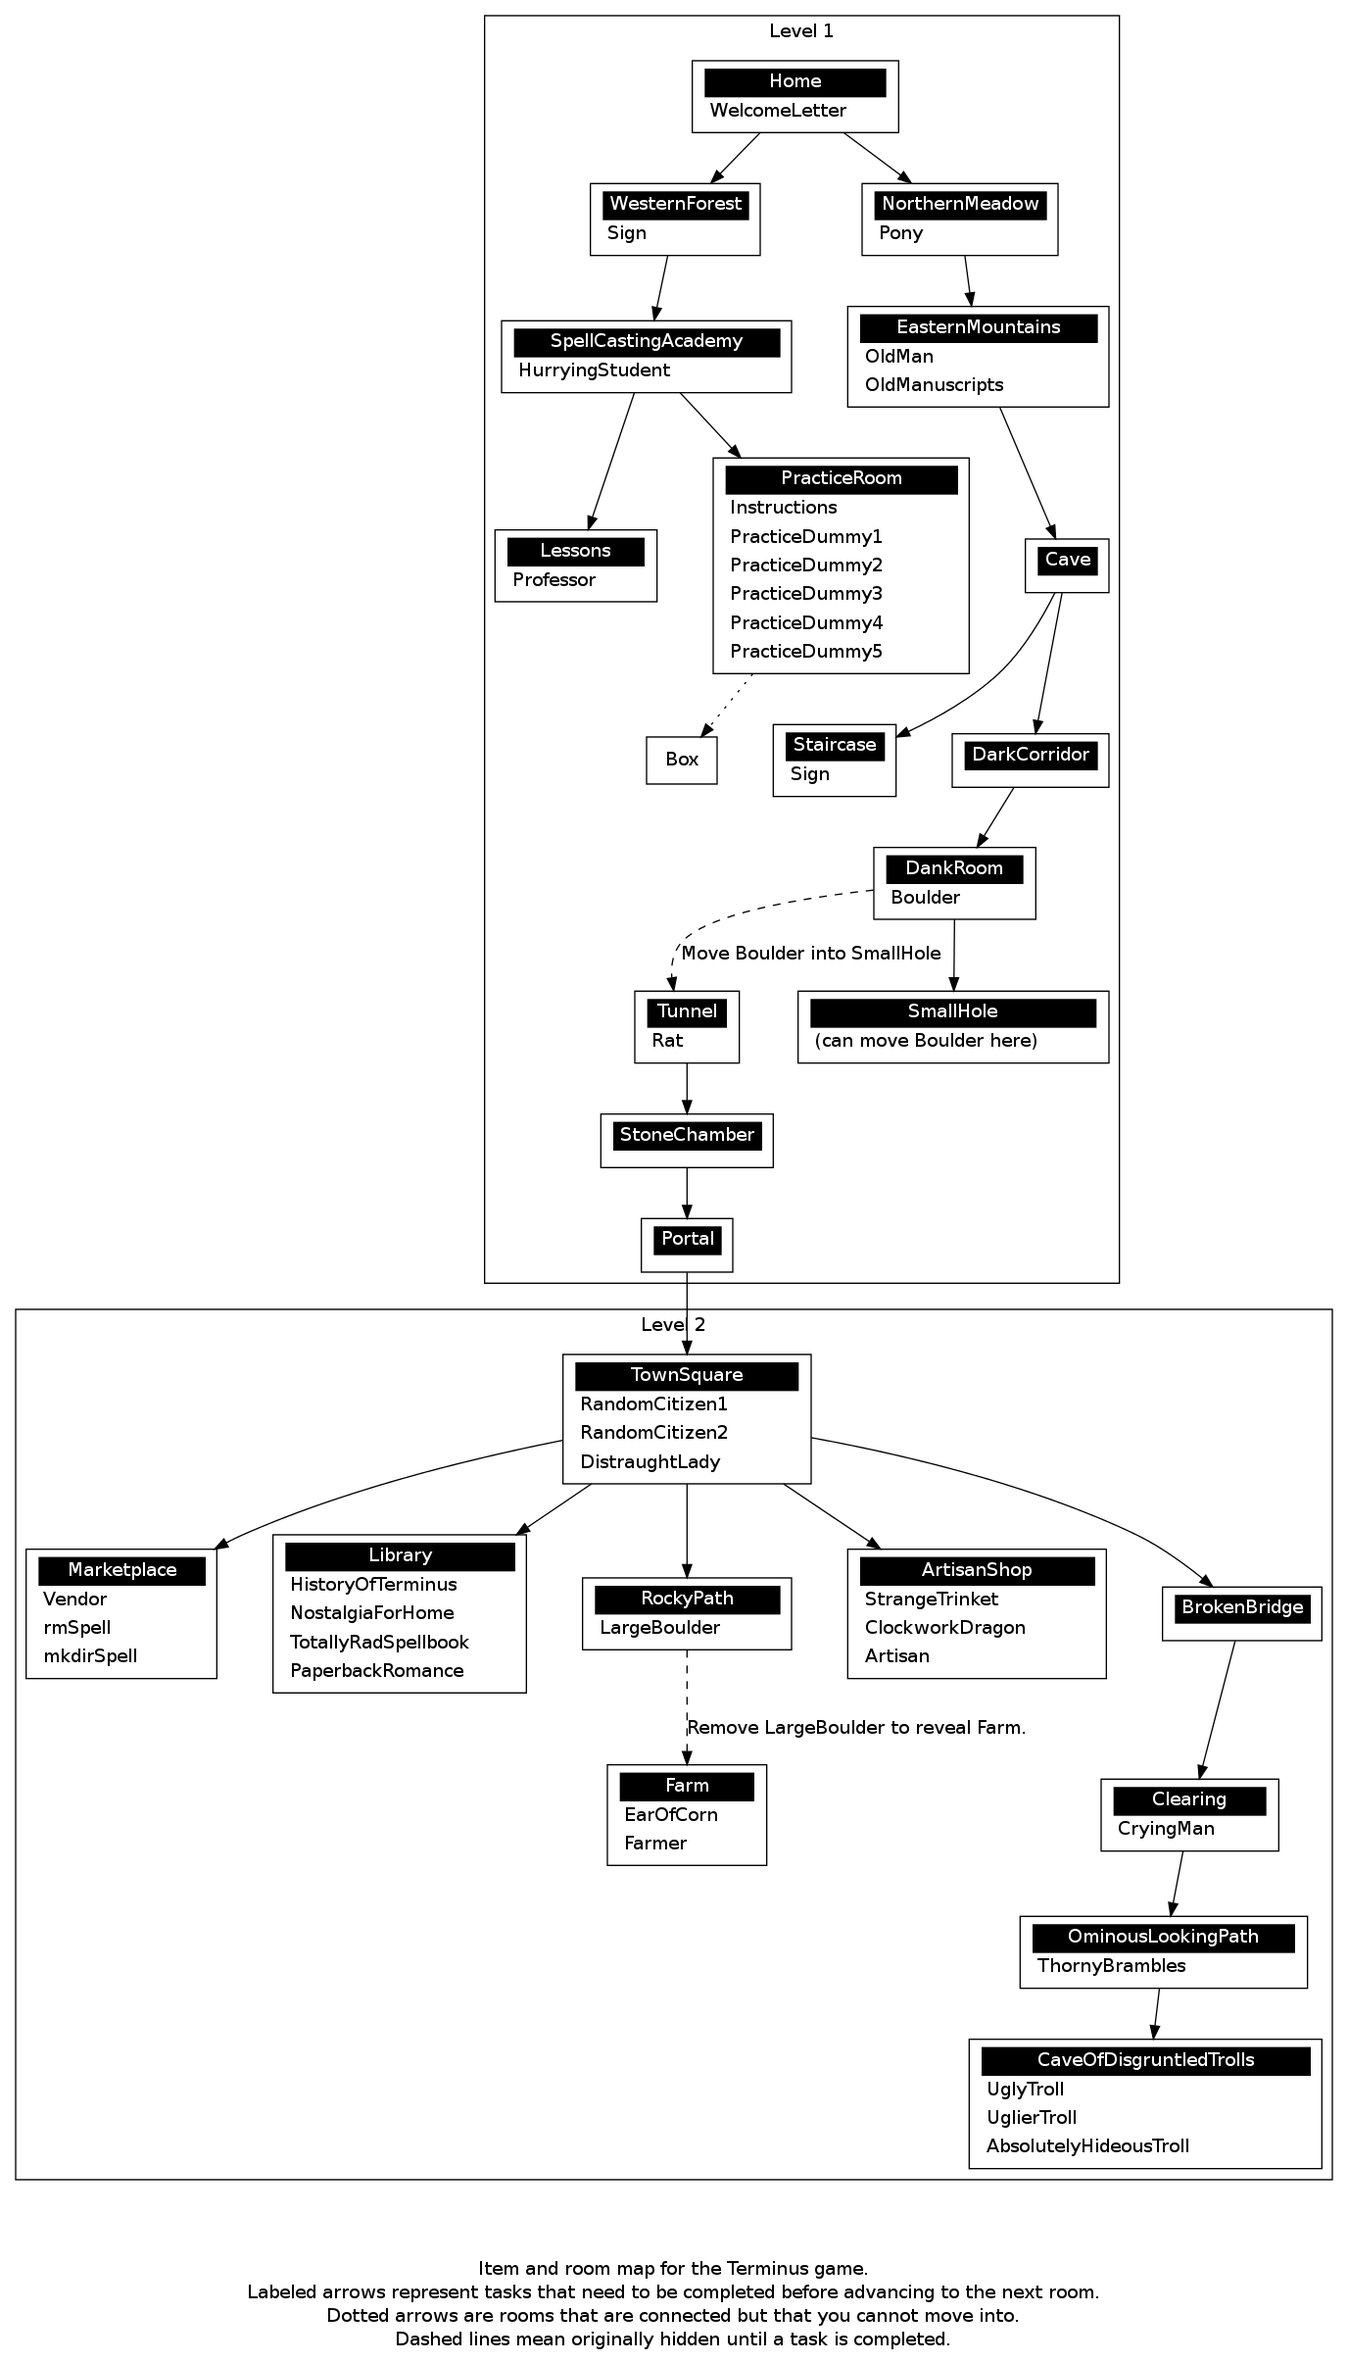
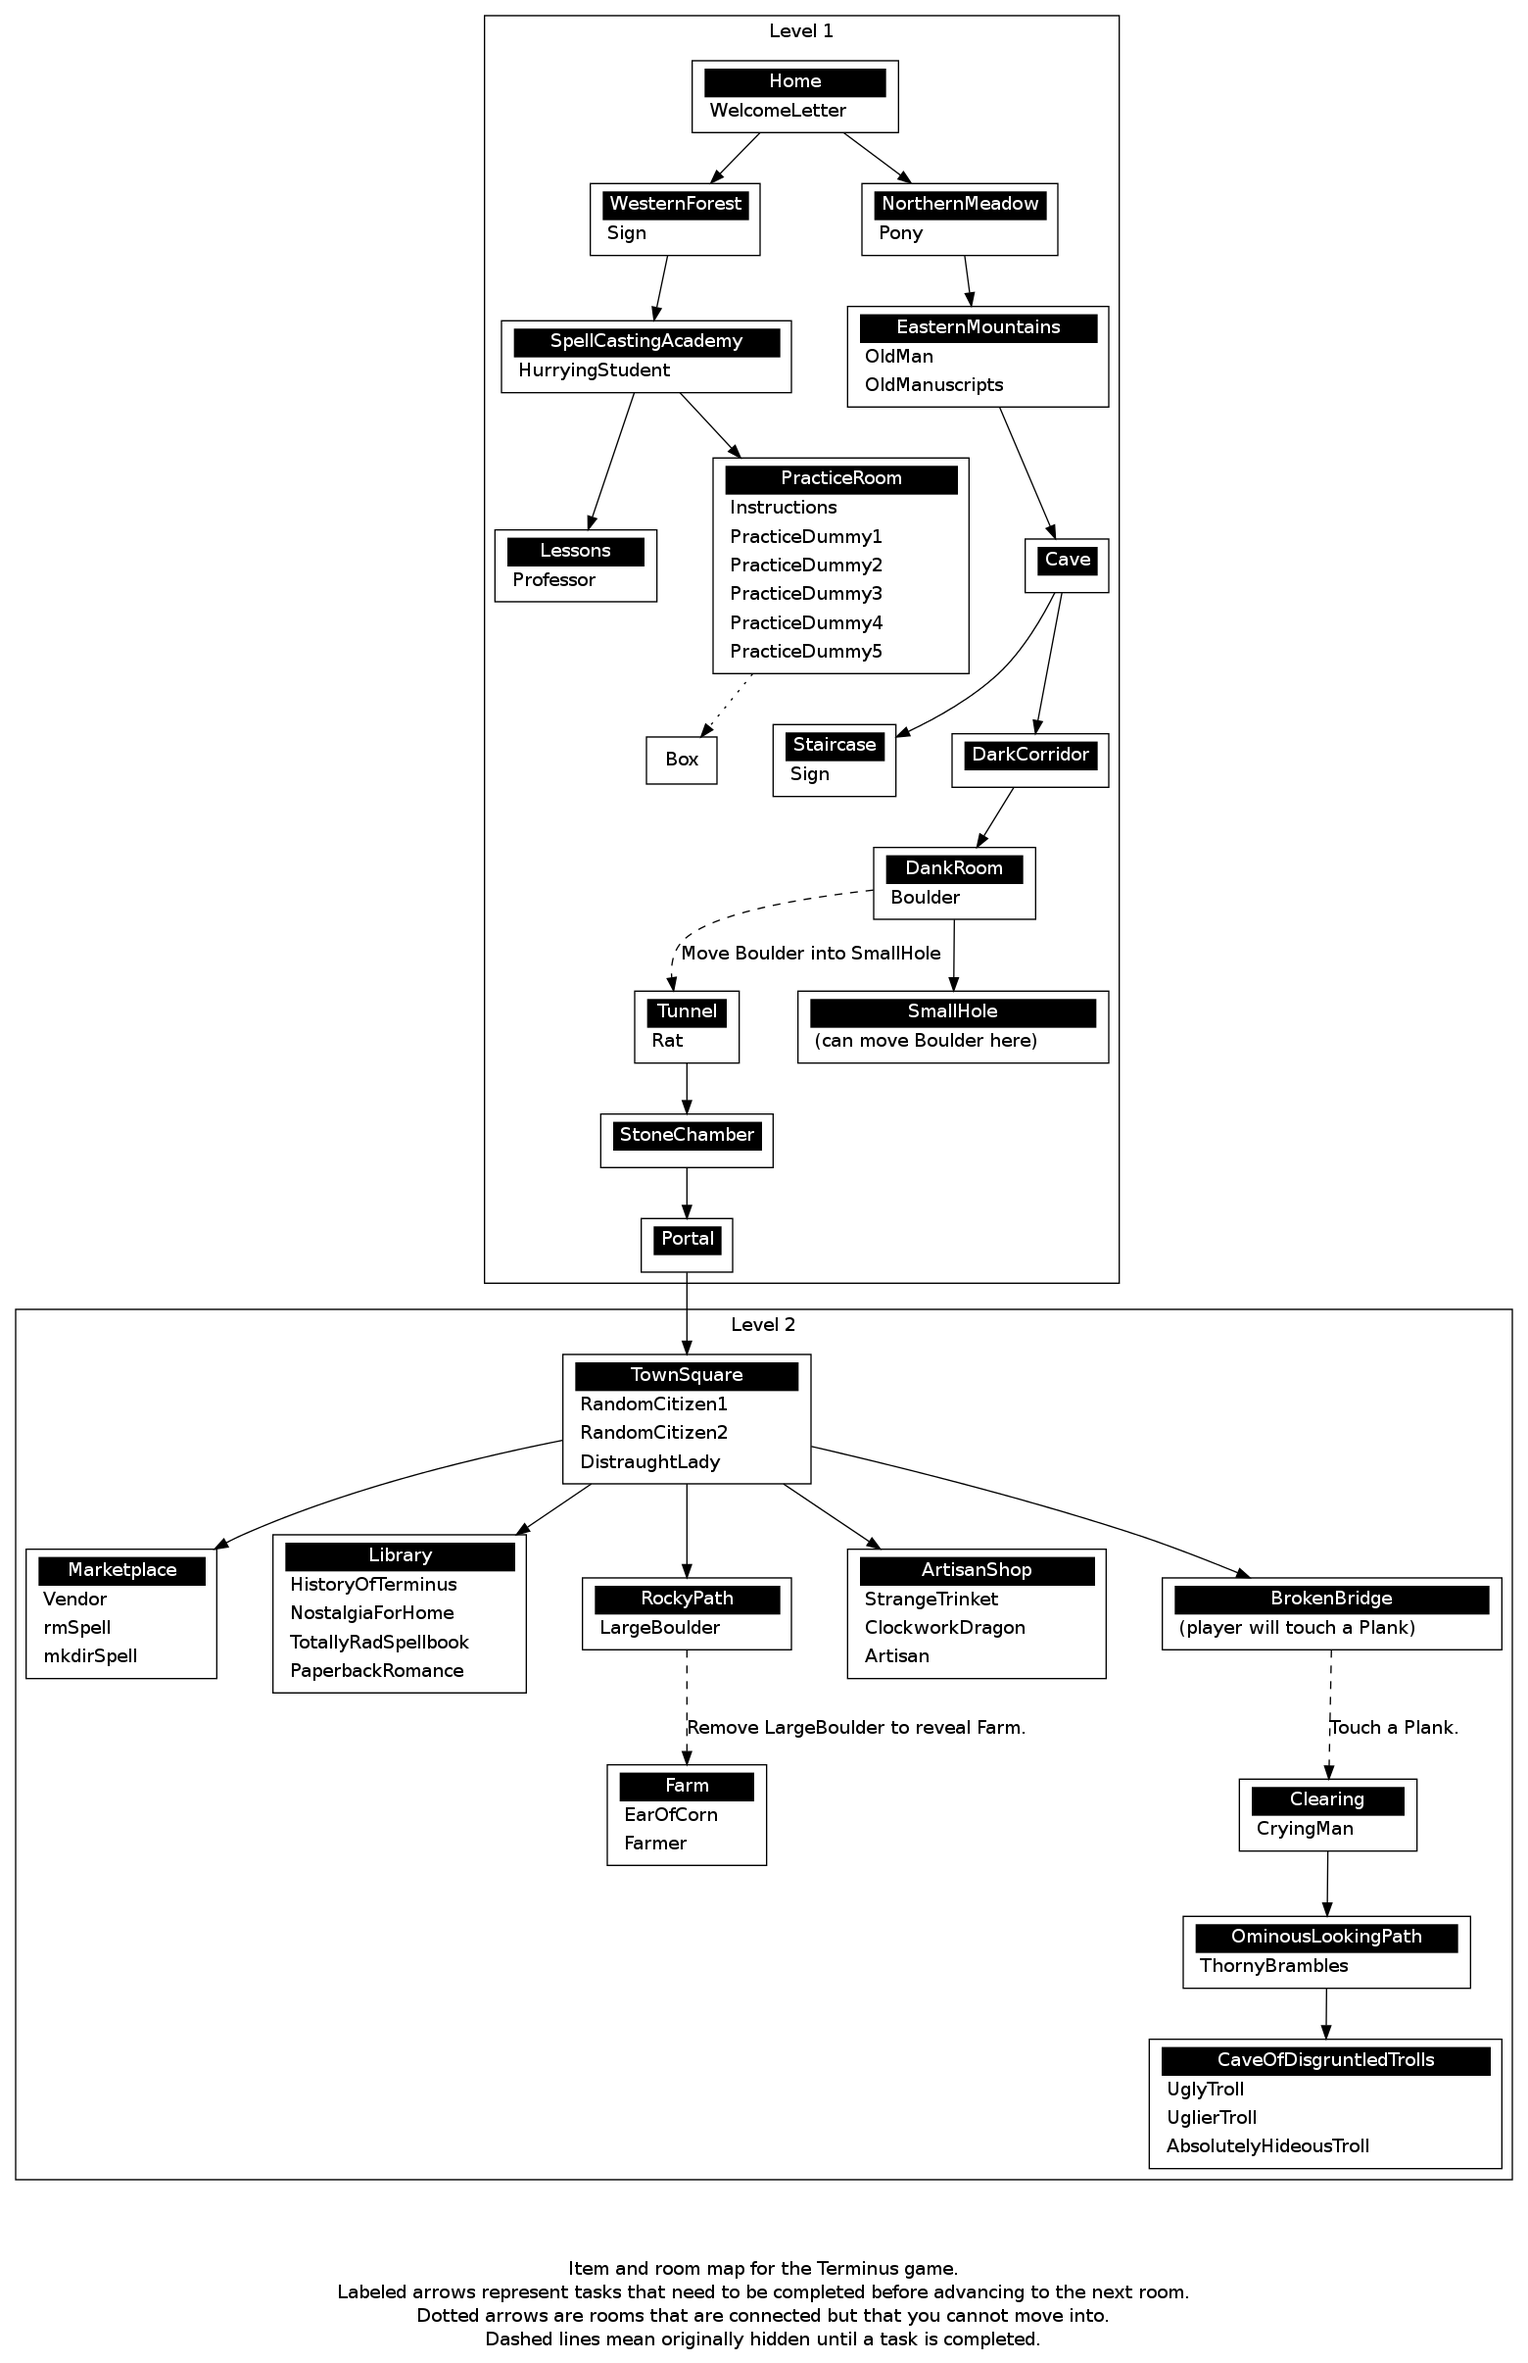
touch implemented in general and for the plank on broken bridge

diff --git a/Web/static/javascript/Room.js b/Web/static/javascript/Room.js
@@ -133,7 +133,7 @@ Room.prototype.cd = function(args){
 		if (this.parents.length >= 1){
             enterRoom();
 			current_room = this.parents[0];
-			return "You have moved to " + current_room.toString() + ".";
+			return "You have moved to " + current_room.toString() + ". " + current_room.intro_text;
 		} else {
 			return "You are at the first room.";
 		}
@@ -144,7 +144,7 @@ Room.prototype.cd = function(args){
 	} else if (args[0] === ".") {
         enterRoom();
         $("#scene").attr("src", "./static/img/none.gif"); //Always show blank image when moving into a room
-		return "You have moved to " + current_room.toString() + ".";
+		return "You have moved to " + current_room.toString() + ". " + current_room.intro_text;
 	} else {
 		roomname = args[0];
 		for (var i = 0; i < this.children.length; i++){
@@ -152,7 +152,7 @@ Room.prototype.cd = function(args){
 				if (this.children[i].commands.indexOf("cd") > -1){
 					current_room = this.children[i];
 	                enterRoom();
-					return "You have moved to " + current_room.toString() + ".";
+					return "You have moved to " + current_room.toString() + ". " + current_room.intro_text;
 				} else {
 					return this.children[i].cmd_text["cd"];
 				}
@@ -276,6 +276,26 @@ Room.prototype.grep = function(args){
 };
 
 Room.prototype.touch = function(args){
+	if (args.length < 1){
+		return "You must touch something in particular.";
+	} else {
+		var createdItemsString = "";
+		for (var i = args.length - 1; i >= 0; i--) {
+			console.log(args[i]);
+			if (args[i].length > 0){
+				this.addItem(new Item(args[i], "This is a " + args[i]));
+				createdItemsString += args[i];
+				if (args[i] === "Plank"){
+					this.ev.fire("touchPlank");
+				}
+			}
+		};
+		if (createdItemsString === ""){
+			return "You haven't touched anything. Check your syntax.";
+		} else {
+			return "You have just created " + createdItemsString;
+		}
+	}
 	return "You haven't learned this spell yet.";
 };
 

diff --git a/Web/static/javascript/GameObjects.js b/Web/static/javascript/GameObjects.js
@@ -394,6 +394,9 @@ Plank, and the gap is too far to jump.",
     "loc_bridge.gif");
 //beforeClearing = new Room("Clearing", "You can't cross the bridge until you've replaced the missing Plank.", "");
 BrokenBridge.addCommand("touch");
+BrokenBridge.ev.addListener("touchPlank", function(){
+    link_rooms(BrokenBridge, Clearing);
+});
 
 //CLEARING
 var Clearing = new Room("Clearing", 
@@ -525,10 +528,10 @@ link_rooms(TownSquare, Marketplace);
 link_rooms(TownSquare, Library);
 link_rooms(TownSquare, RockyPath);
 link_rooms(TownSquare, ArtisanShop);
-link_rooms(TownSquare, Brokenbridge);
+link_rooms(TownSquare, BrokenBridge);
 //link(library, backRoom); 
 // link_rooms(RockyPath, Farm);
-link_rooms(BrokenBridge, Clearing);
+// link_rooms(BrokenBridge, Clearing);
 link_rooms(Clearing, OminousPath);
 link_rooms(OminousPath, CaveOfTrolls);
 //link_rooms(CaveOfTrolls, Cave);

diff --git a/Web/static/javascript/Game.js b/Web/static/javascript/Game.js
@@ -1,7 +1,7 @@
 var state = new GameState();
 //read cookie if one exists
 // var current_room = state.getCurrentRoom();
-var current_room = Farm;
+var current_room = BrokenBridge;
 var man_pages = {"cd": "The old man's voice echoes in your head as if from a great distance: \n"+
 "(Choose Destination) Use \"cd\" to move about the world. \n" +
 "Command Input: cd LOCATION \n" +
